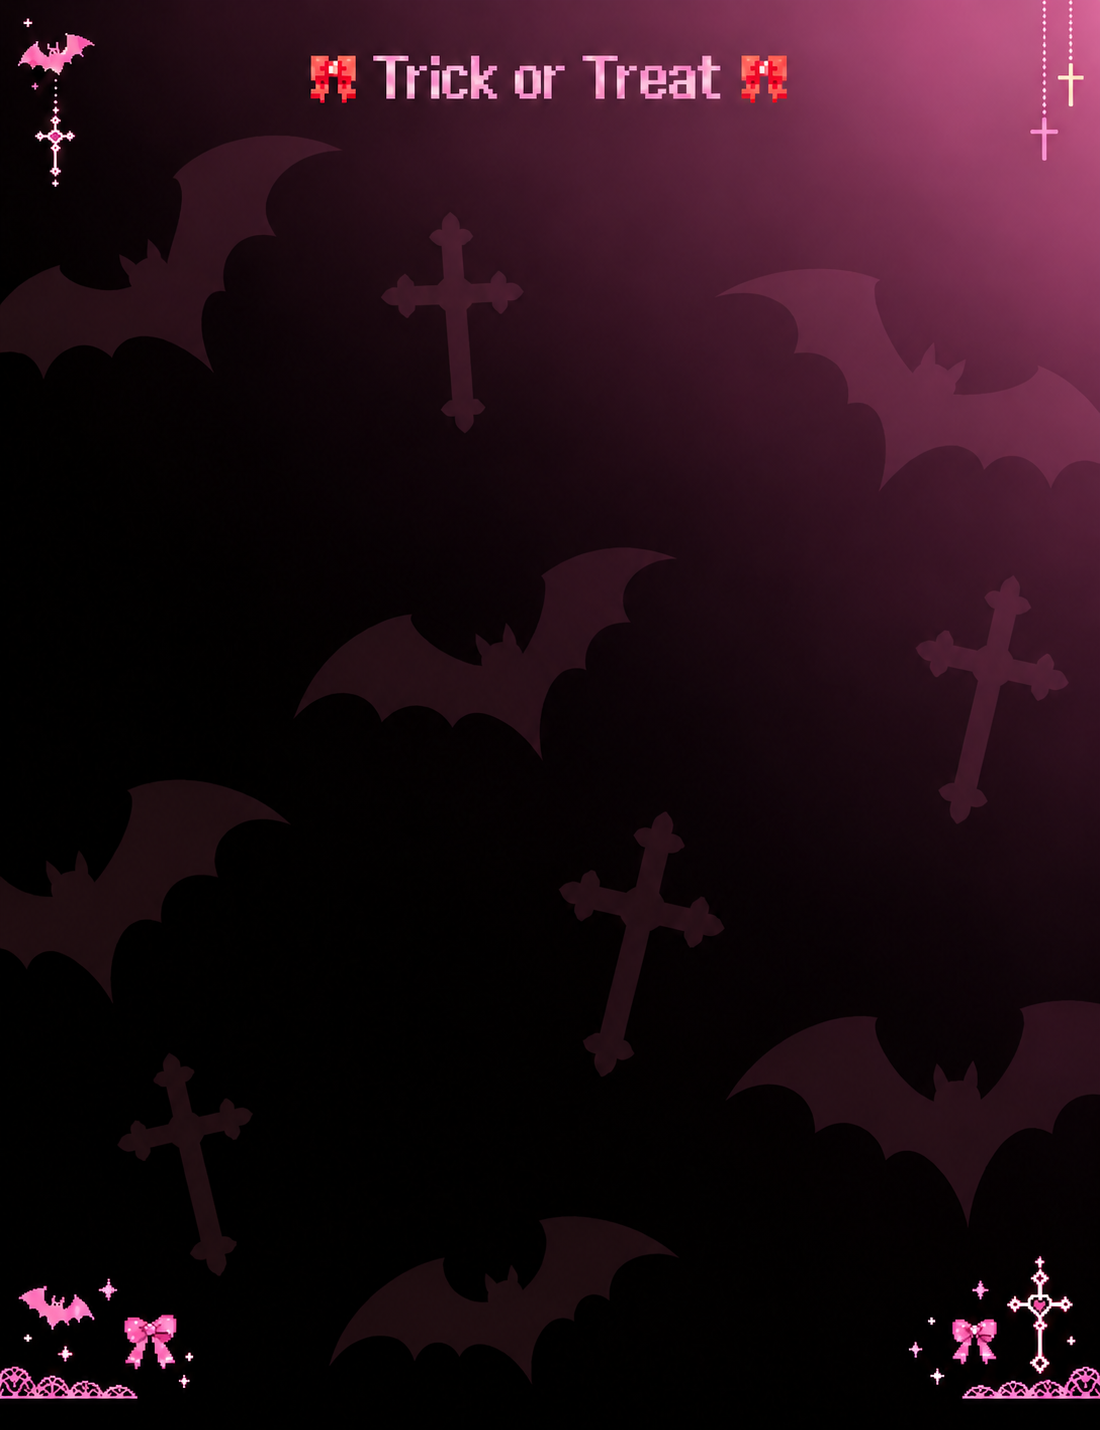
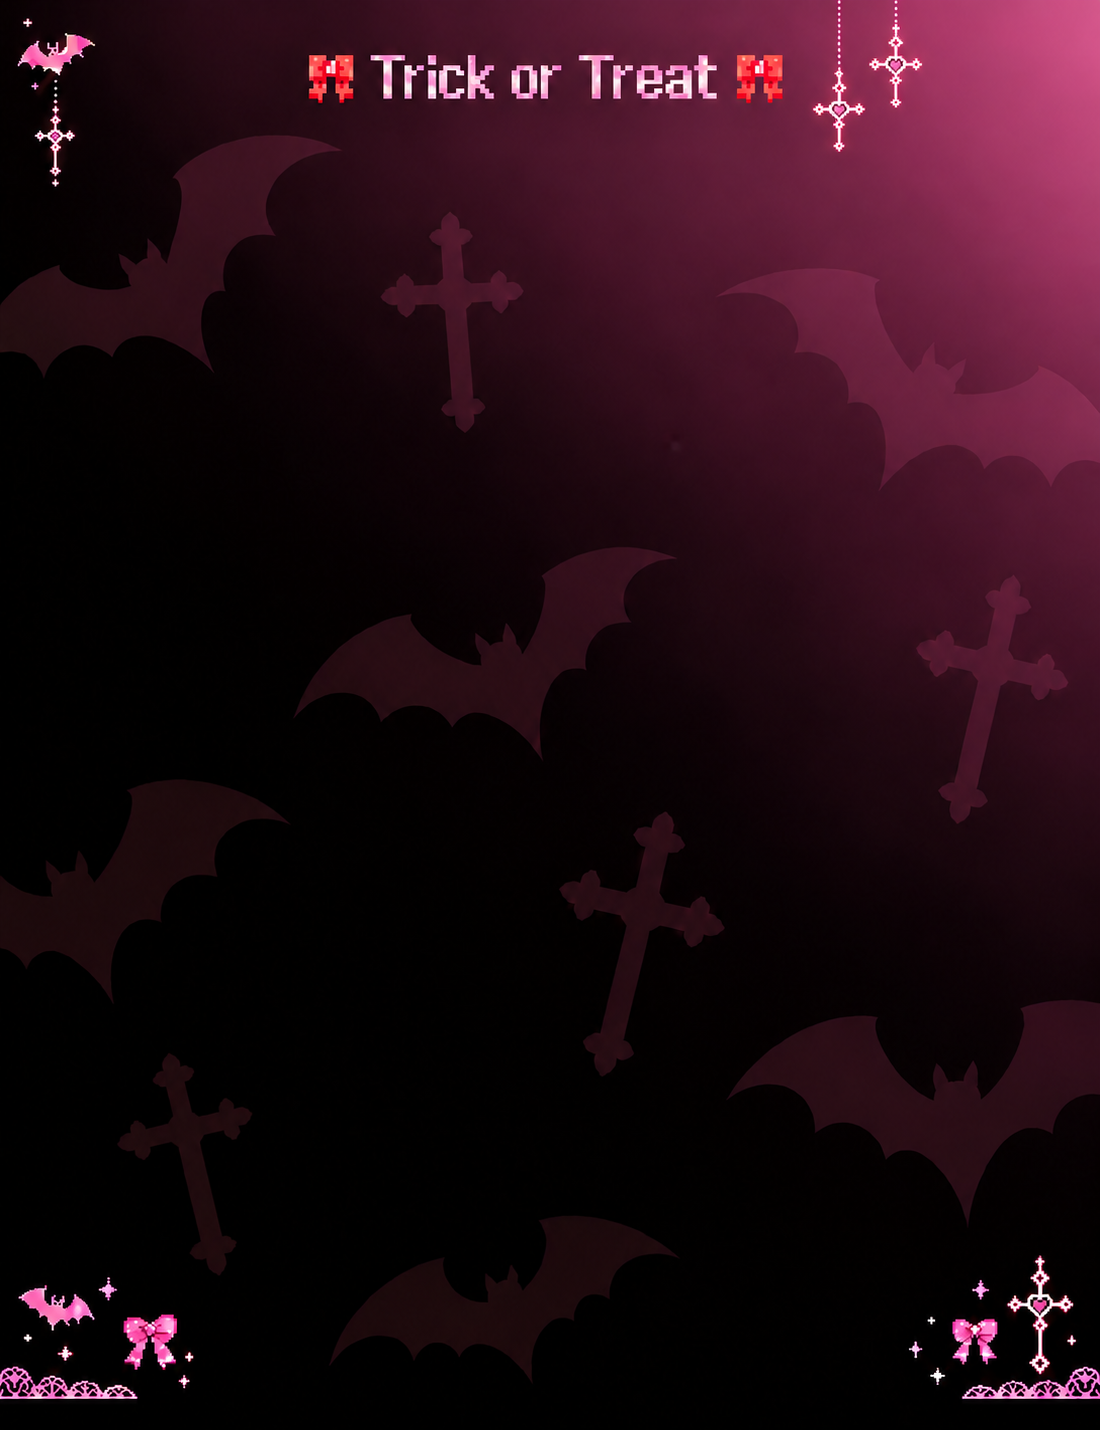
Restore original ornate crosses and move hanging pair further inward

diff --git a/index.html b/index.html
@@ -1,8 +1,8 @@
 <!doctype html>
 <html lang="ko">
-<head><meta charset="UTF-8"><meta name="viewport" content="width=device-width, initial-scale=1"><meta name="theme-color" content="#1b1622"><title>홍옥필름</title><link rel="icon" type="image/x-icon" href="./assets/favicon.ico?v=20261019.13"><link rel="icon" type="image/png" sizes="32x32" href="./assets/favicon-32.png?v=20261019.13"><link rel="apple-touch-icon" sizes="180x180" href="./assets/apple-touch-icon.png?v=20261019.13"><link rel="stylesheet" href="./style.css?v=20261019.13"></head>
+<head><meta charset="UTF-8"><meta name="viewport" content="width=device-width, initial-scale=1"><meta name="theme-color" content="#1b1622"><title>홍옥필름</title><link rel="icon" type="image/x-icon" href="./assets/favicon.ico?v=20261019.14"><link rel="icon" type="image/png" sizes="32x32" href="./assets/favicon-32.png?v=20261019.14"><link rel="apple-touch-icon" sizes="180x180" href="./assets/apple-touch-icon.png?v=20261019.14"><link rel="stylesheet" href="./style.css?v=20261019.14"></head>
 <body>
-<header><a class="brand" href="./">HONGOK FILM<span>CHARACTER PHOTO BOOTH</span></a><span class="edition" aria-label="배포 버전 v2026.10.19.13">v2026.10.19.13</span></header>
+<header><a class="brand" href="./">HONGOK FILM<span>CHARACTER PHOTO BOOTH</span></a><span class="edition" aria-label="배포 버전 v2026.10.19.14">v2026.10.19.14</span></header>
 <main>
 <section class="intro"><p class="eyebrow">YOUR MOMENT, FOUR FRAMES.</p><h1>우리의 순간을,<br>조금 특별하게<span>✦</span></h1><p>캐릭터와 함께, 혹은 나만의 모습으로.<br>마음에 드는 프레임에 지금 이 순간을 담아보세요.</p></section>
 <div class="theme-picker" role="group" aria-label="화면 테마"><span>화면 테마</span><button data-theme="lime" aria-pressed="true" style="--swatch:#d5f17c">미드나잇 라임</button><button data-theme="pumpkin" aria-pressed="false" style="--swatch:#ff714c">펌킨 오렌지</button><button data-theme="pink" aria-pressed="false" style="--swatch:#f29cbe">빈티지 핑크</button></div>
@@ -26,5 +26,5 @@
 <footer><span>네 장에 담는, 우리만의 이야기</span><span>HONGOK FILM</span></footer>
 </main>
 <dialog id="camera-dialog"><div class="dialog-top"><h2>지금 이 순간을 담아볼까요?</h2><button id="close-camera" class="text-button">닫기 ✕</button></div><p id="camera-label"></p><div class="camera-stage"><video id="video" autoplay playsinline muted></video><div id="camera-guide">캐릭터 자리<br><small>옆 빈 공간에 맞춰 서 주세요.</small></div><div id="countdown" aria-live="assertive"></div></div><div class="camera-options"><label><input id="camera-mirror" type="checkbox" checked> 거울 모드</label><label>타이머 <select id="timer"><option value="3">3초</option><option value="5">5초</option><option value="0">없음</option></select></label></div><div class="actions"><button id="switch-camera" class="button">카메라 전환</button><button id="capture" class="button primary" disabled>찰칵! 📸</button></div><p id="camera-status" role="status"></p></dialog>
-<script type="module" src="./app.js?v=20261019.13"></script>
+<script type="module" src="./app.js?v=20261019.14"></script>
 </body></html>

diff --git a/app.js b/app.js
@@ -144,7 +144,7 @@ window.addEventListener('pagehide',closeCamera);
 document.addEventListener('visibilitychange',()=>{if(document.hidden&&$('camera-dialog').open)$('camera-dialog').close();});
 async function init(){
   try{
-    const response=await fetch('./assets/frames.json?v=20261019.13');if(!response.ok)throw new Error('config');config=await response.json();
+    const response=await fetch('./assets/frames.json?v=20261019.14');if(!response.ok)throw new Error('config');config=await response.json();
     const paths=[...config.characters.flatMap(c=>c.poses),...Object.values(config.overlays),...Object.values(config.backgrounds??{}).flatMap(value=>value&&typeof value==='object'?Object.values(value):[value])].filter(Boolean);
     await Promise.all([...new Set(paths)].map(async path=>{try{assets.set(path,await imageFrom(new URL(path,document.baseURI).href));}catch{status('일부 프레임을 불러오지 못해 임시 디자인을 표시해요.');}}));
     config.characters.forEach((c,i)=>{const button=document.createElement('button');button.textContent=c.name;button.classList.toggle('active',i===character);button.setAttribute('aria-pressed',String(i===character));button.onclick=()=>{character=i;[...$('characters').children].forEach((b,j)=>{b.classList.toggle('active',j===i);b.setAttribute('aria-pressed',String(j===i));});draw();updateCameraLabel();};$('characters').append(button);});
